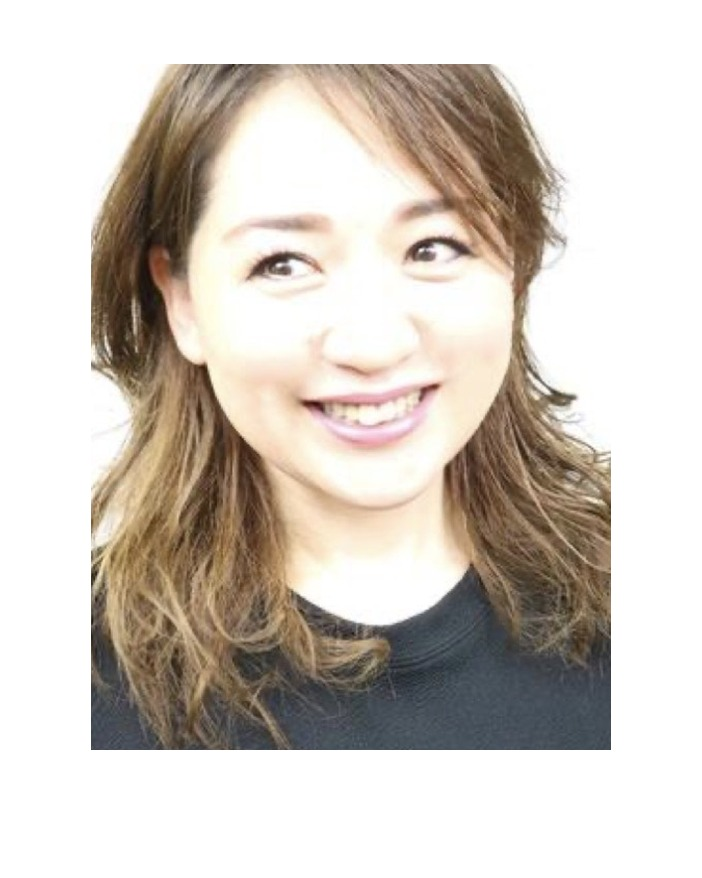
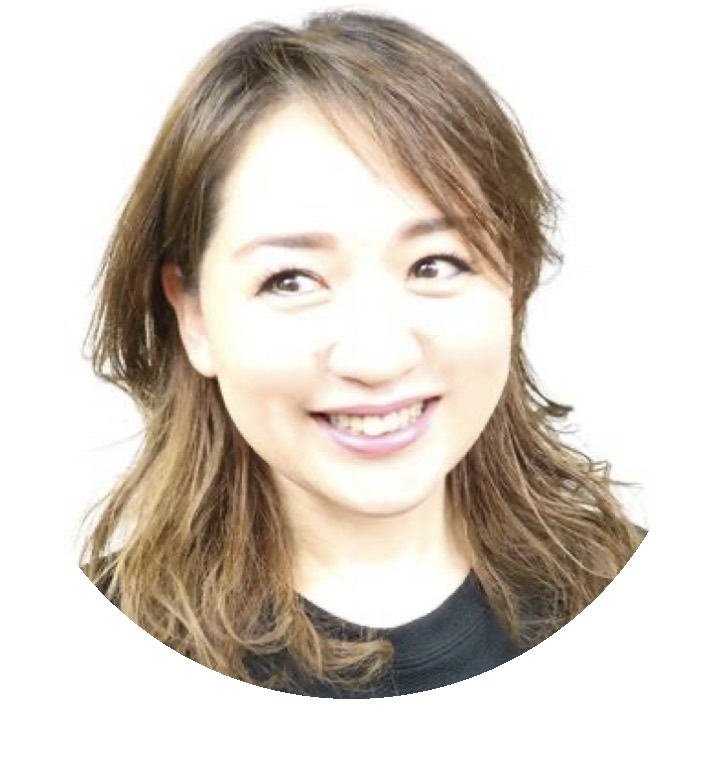
Refine Mio Ando portrait frame

diff --git a/index.html b/index.html
@@ -881,7 +881,7 @@
     .artist-photo-focus--mio {
       object-fit: contain;
       object-position: center top;
-      transform: none;
+      transform: scale(0.86);
       transform-origin: center top;
       background: #fff;
     }
@@ -932,7 +932,7 @@
     transform: none;
 }
 .artist-card:hover .artist-photo img.artist-photo-focus--mio {
-    transform: none;
+    transform: scale(0.86);
 }
 
 .artist-card:hover .artist-photo img.artist-photo-focus--kiyoko {
